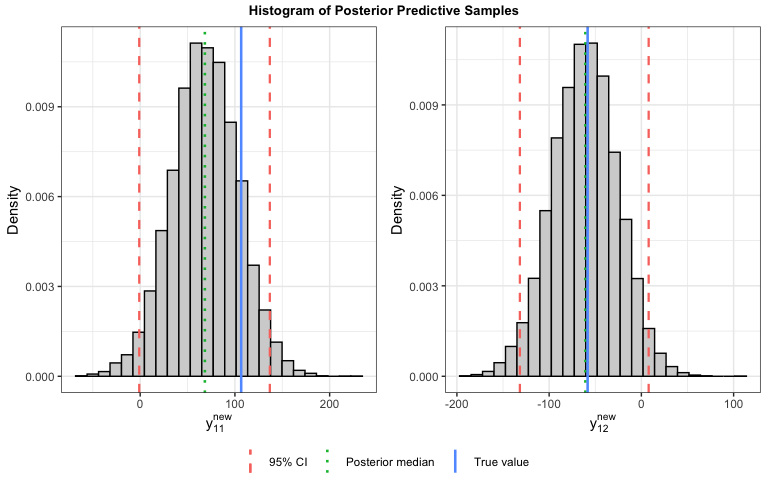
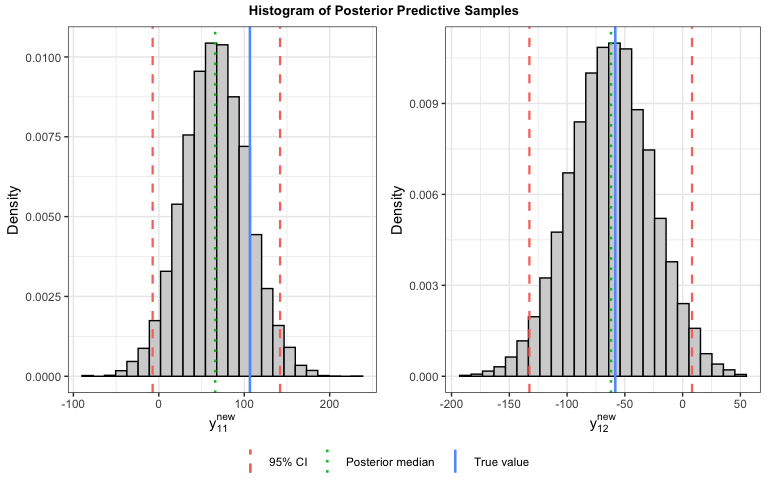
organized repo

diff --git a/README.md b/README.md
@@ -30,12 +30,12 @@ This repository contains:
       the GEE approach [Zhang et al.,
       2019](https://doi.org/10.5705/ss.202017.0153).
     - `preprocess_DEAM.R` contains the code used to preprocess the music
-      emotion recognition (DEAM) data [Aljanaki et al.,
+      emotion recognition (DEAM) data by [Aljanaki et al.,
       2017](https://doi.org/10.1371/journal.pone.0173392). The dataset
       is available to download
       [here](https://cvml.unige.ch/databases/DEAM/).
     - `preprocess_LFW.R` contains the code used to preprocess the
-      Labeled Faces in the Wild (LFW) data [Learned-Miller et al.,
+      Labeled Faces in the Wild (LFW) data by [Learned-Miller et al.,
       2016](https://link.springer.com/chapter/10.1007/978-3-319-25958-1_8).
       The dataset is available to download
       [here](https://www.kaggle.com/datasets/jessicali9530/lfw-dataset?select=lfw-deepfunneled).
@@ -46,6 +46,7 @@ This repository contains:
 pdims <- qdims <- c(32, 32)
 n_train <- 100; n_test <- 50; m <- 9 ## 9 observations per subject
 
+set.seed(12345)
 ## Generating a  CP-structured fixed-effect coefficient
 cp_decomp_B <- BayesCoMET:::generate_cpB_with_sparse_factors(pdims = c(32, 32), K = 4,
                                                              sparsity = 0.25, seed = 123)
@@ -81,7 +82,6 @@ nmodes <- length(pdims)
 
 ## Implement CoMET model Gibbs sampler
 kdims <- rep(3, nmodes)
-set.seed(12345)
 R_list <- lapply(1:nmodes, function(d) {matrix(rnorm(kdims[d] * qdims[d], 0, sd = sqrt(1/kdims[d])), kdims[d], qdims[d])})
 S_list <- lapply(1:nmodes, function(d) {matrix(rnorm(kdims[d] * qdims[d], 0, sd = sqrt(1/kdims[d])), kdims[d], qdims[d])})
 
@@ -110,7 +110,7 @@ res$sampler_time / 60
 ```
 
     ##     user   system  elapsed 
-    ## 22.37247  0.31405 22.68350
+    ## 22.52927  0.41870 23.02825
 
 ``` r
 betaPostMed <- apply(res$betaSamp, 2, median)
